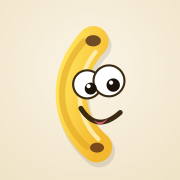
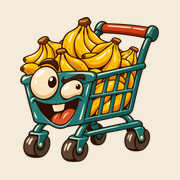
Adopte le caddie à bananes comme mascotte

diff --git a/src/routes/+layout.svelte b/src/routes/+layout.svelte
@@ -92,7 +92,7 @@
   {#if !isAuthPage}
     <!-- Header desktop -->
     <header class="no-print bg-linen/80 backdrop-blur-sm border-b border-umber/15 sticky top-0 z-30" bind:offsetHeight={headerHeight}>
-      <div class="max-w-6xl mx-auto px-4 md:px-8 py-4 flex items-center justify-between gap-6">
+      <div class="max-w-6xl mx-auto px-4 md:px-8 py-2 flex items-center justify-between gap-6">
         <button
           type="button"
           class="group inline-flex items-center gap-2 bg-transparent border-0 p-0 text-left select-none"
@@ -107,7 +107,7 @@
           onclick={onLogoClick}
           onkeydown={onLogoKeydown}
         >
-          <span class="text-limone text-lg leading-none">✦</span>
+          <img src="/bananani-mascot.webp" alt="" width="48" height="48" class="shrink-0 pointer-events-none" draggable="false" />
           <span class="font-display italic text-3xl md:text-[28px] leading-none text-umber tracking-tight">
             Bananani
           </span>

diff --git a/src/app.html b/src/app.html
@@ -2,8 +2,8 @@
 <html lang="fr">
   <head>
     <meta charset="utf-8" />
-    <link rel="icon" href="%sveltekit.assets%/favicon.ico" />
-    <link rel="apple-touch-icon" href="%sveltekit.assets%/apple-touch-icon.png" />
+    <link rel="icon" href="%sveltekit.assets%/favicon.ico?v=2" />
+    <link rel="apple-touch-icon" href="%sveltekit.assets%/apple-touch-icon.png?v=2" />
     <link rel="manifest" href="%sveltekit.assets%/manifest.webmanifest" />
     <meta name="viewport" content="width=device-width, initial-scale=1, viewport-fit=cover" />
     <meta name="theme-color" content="#F4ECDB" />

diff --git a/src/routes/login/+page.svelte b/src/routes/login/+page.svelte
@@ -11,6 +11,7 @@
 <div class="min-h-[60vh] flex items-center justify-center px-4">
   <div class="w-full max-w-md">
     <header class="text-center mb-10">
+      <img src="/bananani-mascot.webp" alt="" width="96" height="96" class="mx-auto mb-3 h-20 w-20 md:h-24 md:w-24" />
       <div class="h-eyebrow mb-2">Bananani</div>
       <h1 class="h-display text-5xl md:text-6xl italic">Benvenuto</h1>
       <p class="text-sepia italic mt-3">Connecte-toi pour accéder à ta cucina.</p>

diff --git a/src/routes/admin/login/+page.svelte b/src/routes/admin/login/+page.svelte
@@ -10,6 +10,7 @@
 <div class="min-h-[60vh] flex items-center justify-center px-4">
   <div class="w-full max-w-md">
     <header class="text-center mb-10">
+      <img src="/bananani-mascot.webp" alt="" width="96" height="96" class="mx-auto mb-3 h-20 w-20 md:h-24 md:w-24" />
       <div class="h-eyebrow mb-2">Bananani</div>
       <h1 class="h-display text-5xl md:text-6xl italic">Back-office</h1>
       <p class="text-sepia italic mt-3">Gestion des comptes utilisateurs.</p>
